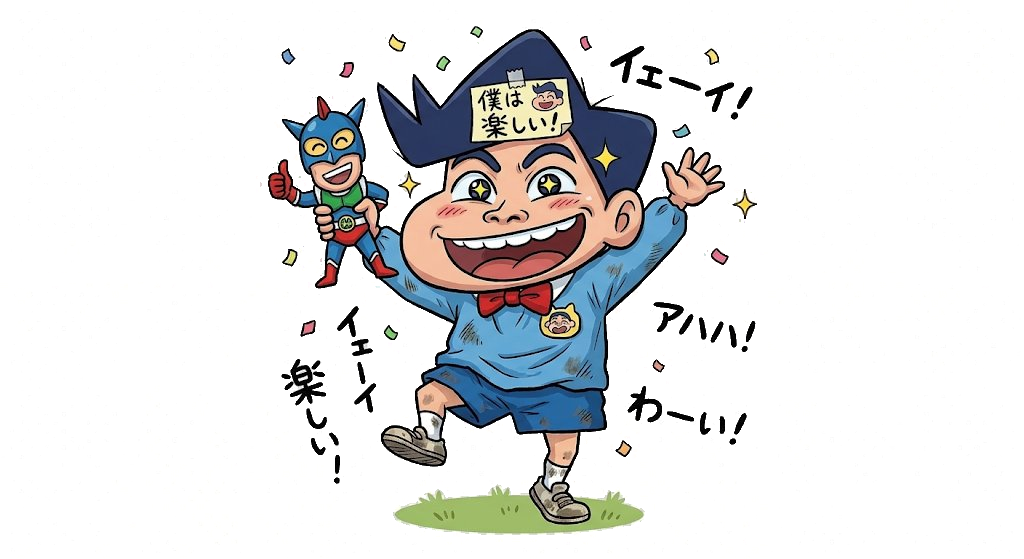
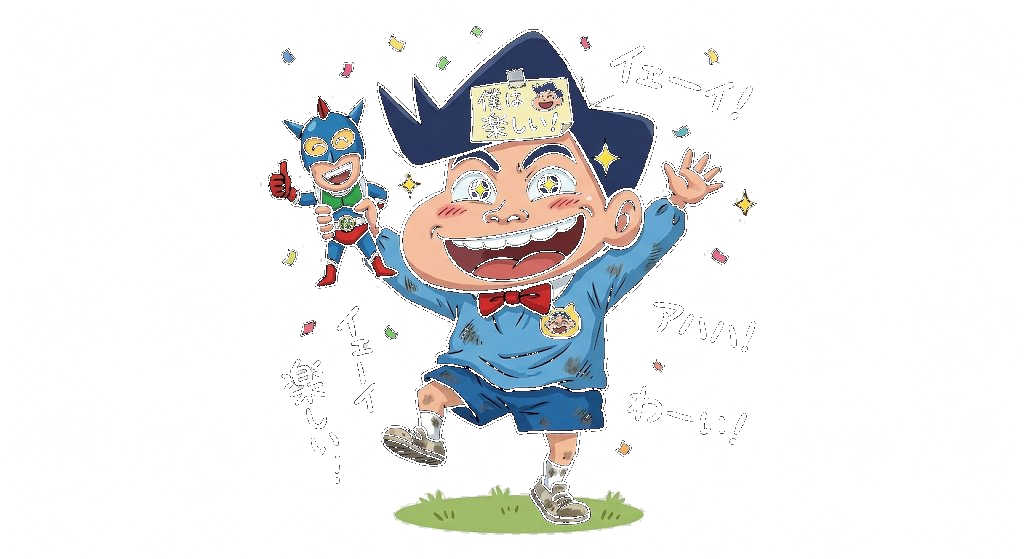
Fix yaho background transparency
- Removed black background from yaho.png using PIL
  (380614 dark pixels < RGB(30,30,30) set to transparent)
- Added cache buster ?v=2 to force browser reload

diff --git a/index.html b/index.html
@@ -493,7 +493,7 @@ satoruImg.src = 'images/satoru.png';
 const kowaiImg = new Image();
 kowaiImg.src = 'images/kowai.png';
 const yahoImg = new Image();
-yahoImg.src = 'images/yaho.png';
+yahoImg.src = 'images/yaho.png?v=2';
 const bgImg = new Image();
 bgImg.src = 'images/bg.png';
 
